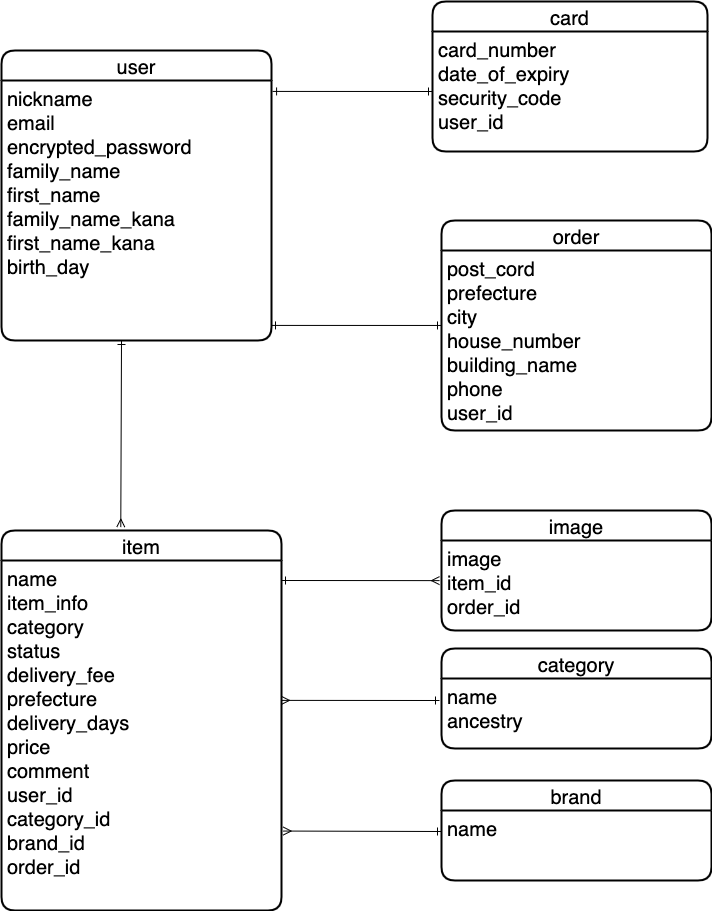
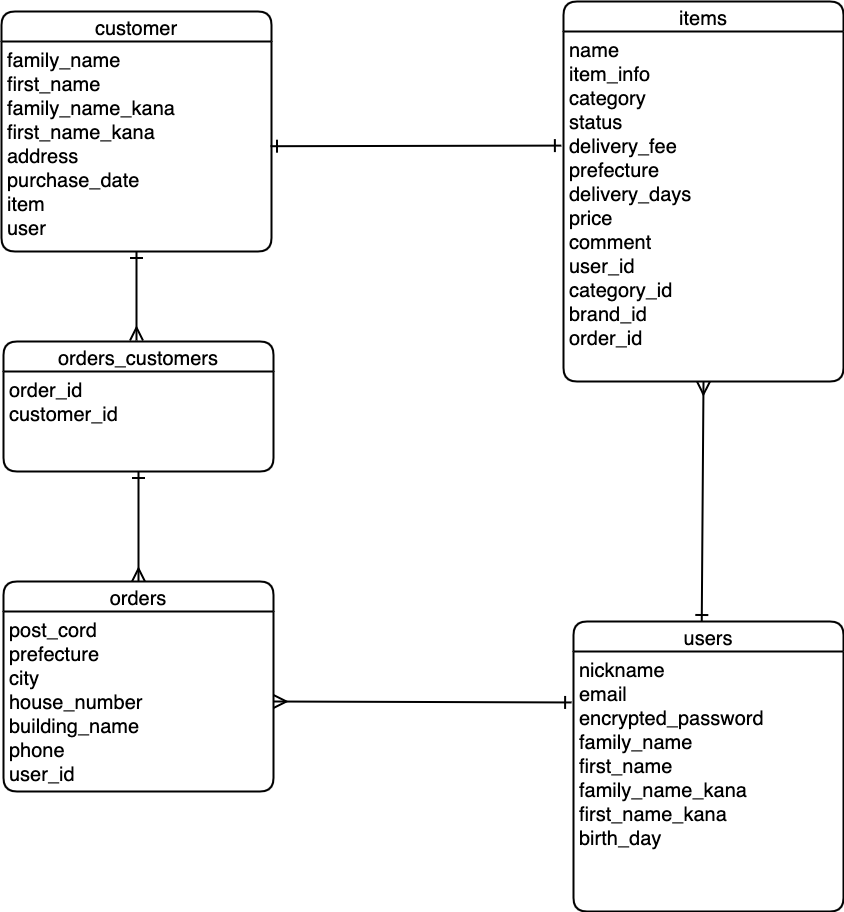
テーブル修正

Changed region(s): [[0.0, 0.0, 1.0, 1.0], [0.4635, 0.5225, 1.0, 1.0], [0.7725, 0.0, 0.8652, 0.0307]]

diff --git a/README.md b/README.md
@@ -23,7 +23,7 @@ Things you may want to cover:
 
 * ...
 
-## userテーブル
+## usersテーブル
 |Column            |Type  |Options    |
 |nickname          |string|null: false|
 |email             |string|null: false|
@@ -32,71 +32,50 @@ Things you may want to cover:
 |first_name        |string|null: false|
 |family_name_kana  |string|null: false|
 |first_name_kana   |string|null: false|
-|birth_day         |data  |null: false|
+|birth_day         |date  |null: false|
 
-has_one :card
-has_one :order
+has_many :orders
 has_many :items
 
-## itemテーブル
-|Column       |Type   |Options                       |
-|name         |string |null: false                   |
-|item_info    |string |null: false                   |
-|category     |string |null: false                   |
-|status       |string |null: false                   |
-|delivery_fee |string |null: false                   |
-|prefecture   |string |null: false                   |
-|delivery_days|string |null: false                   |
-|price        |string |null: false                   |
-|comment      |string |                              |
-|user_id      |integer|null: false, foreign_key: true|
-|category_id  |integer|null: false, foreign_key: true|
-|brand_id     |integer|null: false, foreign_key: true|
-|order_id     |integer|null: false, foreign_key: true|
+## itemsテーブル
+|Column          |Type     |Options                       |
+|name            |string   |null: false                   |
+|item_info       |string   |null: false                   |
+|category_id     |integer  |null: false                   |
+|status_id       |integer  |null: false                   |
+|delivery_fee_id |integer  |null: false                   |
+|prefecture_id   |integer  |null: false                   |
+|delivery_days_id|integer  |null: false                   |
+|price           |string   |null: false                   |
+|comment         |string   |                              |
+|user            |reference|null: false, foreign_key: true|
 
 belongs_to :user
-belongs_to :brand
-has_many :images
-belongs_to :category
+belongs_to :customer
 
-## orderテーブル
-|Column       |Type   |Options                       |
-|post_cord    |integer|null: false                   |
-|prefecture   |string |null: false                   |
-|city         |string |null: false                   |
-|house_number |integer|null: false                   |
-|building_name|integer|null: false                   |
-|phone        |integer|null: false                   |
-|user_id      |integer|null: false, foreign_key: true|
+## ordersテーブル
+|Column       |Type     |Options                       |
+|post_cord    |integer  |null: false                   |
+|prefecture   |string   |null: false                   |
+|city         |string   |null: false                   |
+|house_number |integer  |null: false                   |
+|building_name|integer  |null: false                   |
+|phone        |integer  |null: false                   |
+|user         |reference|null: false, foreign_key: true|
 
 belongs_to :user
+has_many :customers, through: :orders_customer
 
-## cardテーブル
-|Column        | Type  |Options                       |
-|card_number   |string |null: false                   |
-|date_of_expiry|data   |null: false                   |
-|security_code |integer|null: false                   |
-|user_id       |integer|null: false, foreign_key: true|
+## customersテーブル
+|Column          |Type     |Options                       |
+|family_name     |string   |null: false                   |
+|first_name      |string   |null: false                   |
+|family_name_kana|string   |null: false                   |
+|first_name_kana |string   |null: false                   |
+|address         |string   |null: false                   |
+|purchase_date   |date     |                              |
+|item            |reference|null: false, foreign_key: true|
+|user            |reference|null: false, foreign_key: true|
 
-belongs_to :user
-
-## imageテーブル
-|Column  |Type  |Options                       |
-|image   |string|null: false                   |
-|item_id |string|null: false, foreign_key: true|
-|order_id|string|null: false, foreign_key: true|
-
-belongs_to :item
-
-## categoryテーブル
-|Column  |Type  |Options    |
-|name    |string|null: false|
-|ancestry|string|null: false|
-
-has_many :items
-
-## brandテーブル
-|Column|Type  |Options    |
-|name  |string|null: false|
-
-has_many :item
+has_one :item
+has_many :orders, through: :orders_customer
